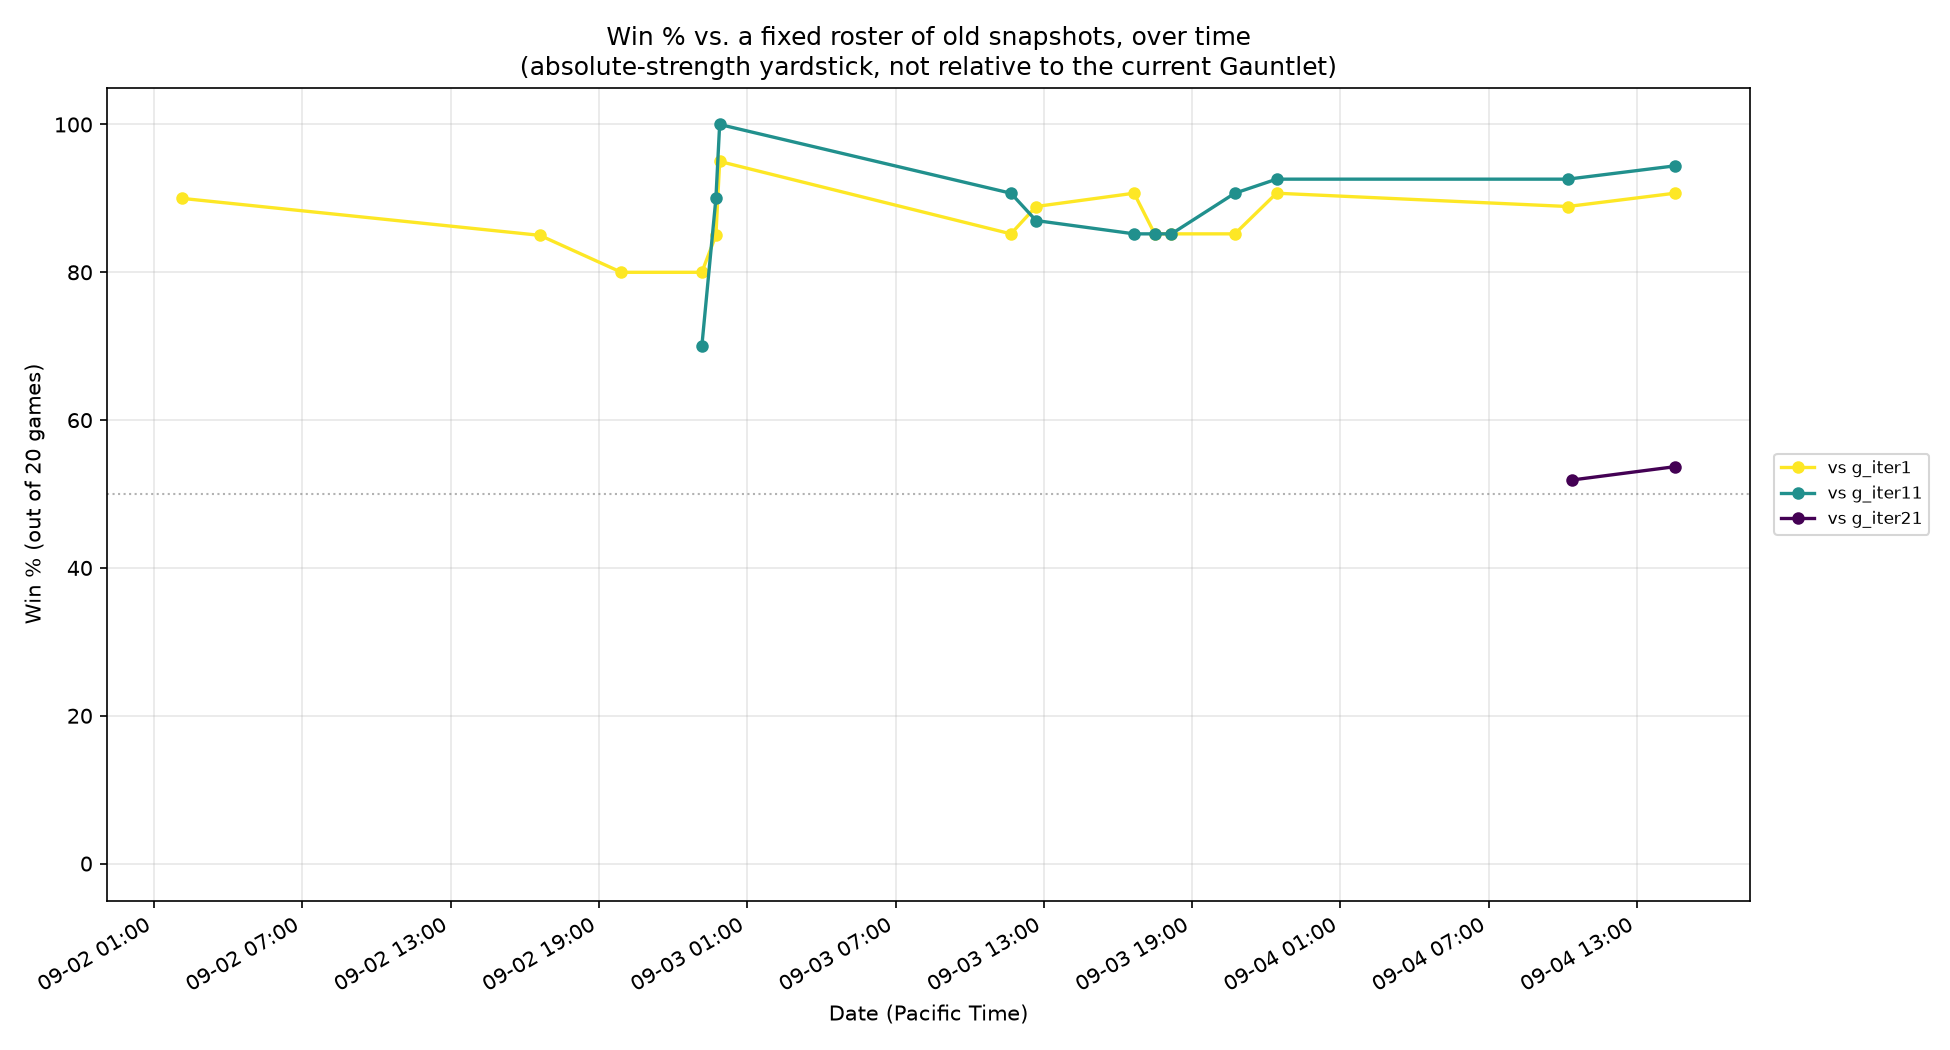
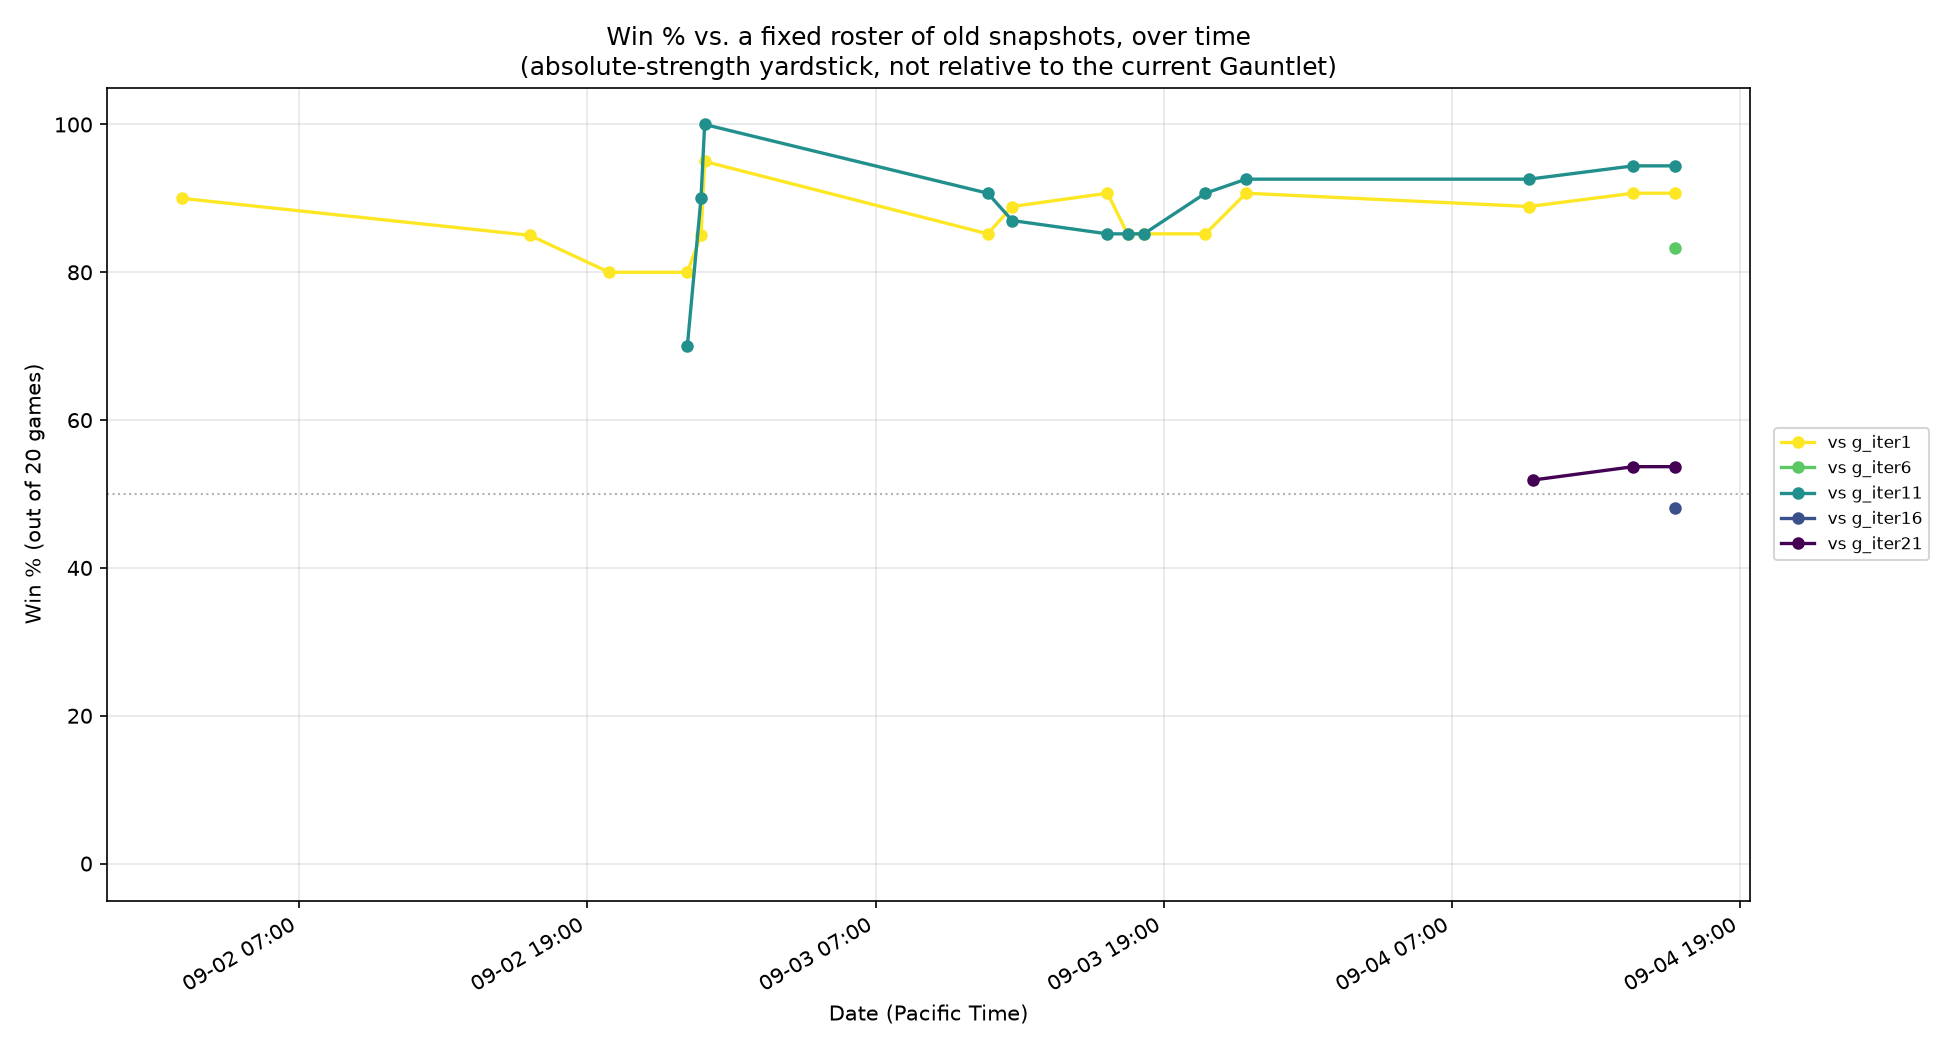
Widen vs_old_bots roster to every 5th snapshot; first 270-game run
Roster is now g_iter1, g_iter6, g_iter11, g_iter16, g_iter21 (every accepted
iteration ending in 1 or 6), 270 games per run.

First run at g_iter23:
    vs g_iter1   49/54 = 91%
    vs g_iter6   45/54 = 83%
    vs g_iter11  51/54 = 94%
    vs g_iter16  26/54 = 48%   <-- below even
    vs g_iter21  29/54 = 54%
    overall     200/270 = 74.1%

The denser roster immediately shows what decade spacing hid: we do not beat
g_iter16, seven accepts back, and only just beat g_iter21. The old two-point
roster reported 91% and 94% and made the lineage look uniformly dominated.

Not straightforwardly a regression -- benchmarks went 5/162 -> 8/162 and peers
55.6% -> 59.3% over the same span. The head-to-head says the improvements since
g_iter16 are benchmark-directed rather than lineage-directed: trap density (102),
cat traps (128) and the raid removal (138) all target behaviours the benchmark
bots exploit, and none help much against a copy of ourselves that never rushes
and never lays a trap field.

Same representativeness split recorded throughout, and a caution about the mirror
as primary accept test: g_iter16 beating g_iter23 head-to-head is what "the
mirror cannot arbitrate changes aimed at a threat it does not pose" predicts.

Claude-Session: https://claude.ai/code/session_01Sgao6EtbbgQ6mM5ZhH5FGP

diff --git a/TRAINING_LOG.md b/TRAINING_LOG.md
@@ -9505,3 +9505,44 @@ the ENGINE for capabilities and interactions the bot never used. Iteration 128
 found `CAT_TRAP` (half the cost, double the damage of a rat trap, credited as
 catDamage); Iteration 138 found that the raid's symmetry assumption is wrong on
 16 of 27 maps. Neither was a tuning question.
+
+## vs_old_bots roster widened to every 5th snapshot (user request)
+
+`roster_opponents()` now steps by 5 rather than 10, so the roster is every
+accepted iteration ending in 1 or 6: `g_iter1, g_iter6, g_iter11, g_iter16,
+g_iter21`. Five opponents means 270 games per run rather than 108.
+
+First run at `g_iter23`:
+
+    vs g_iter1    49/54 = 91%
+    vs g_iter6    45/54 = 83%
+    vs g_iter11   51/54 = 94%
+    vs g_iter16   26/54 = 48%     <-- below even
+    vs g_iter21   29/54 = 54%
+    overall      200/270 = 74.1%
+
+**The denser roster immediately shows something the decade spacing hid: we do
+not beat `g_iter16`,** a snapshot seven accepts back, and we only just beat
+`g_iter21`. The old two-point roster (g_iter1, g_iter11) reported 91% and 94%
+and made the lineage look uniformly dominated.
+
+### Reading it honestly
+
+This is not straightforwardly a regression. Benchmarks over the same span went
+**5/162 -> 8/162**, and peers 55.6% -> 59.3%, so the bot has improved against
+the opponents that matter. What the head-to-head says is that the improvements
+since `g_iter16` are **benchmark-directed rather than lineage-directed** -- the
+trap-density accept (Iteration 102), the cat traps (128) and the raid removal
+(138) all target behaviours the benchmark bots exploit, and none of them help
+much against a copy of ourselves that never rushes and never lays a trap field.
+
+That is the same representativeness split recorded throughout: our own lineage
+does not pose the threats we have been fixing. It is also a caution about the
+mirror as the primary accept test -- `g_iter16` beating `g_iter23` head-to-head
+is exactly what "the mirror cannot arbitrate changes aimed at a threat it does
+not pose" predicts.
+
+Worth watching rather than acting on immediately: if `g_iter16` stays above 50%
+as further accepts land, that is evidence the lineage has drifted into a local
+optimum that is worse head-to-head while better against benchmarks -- and the
+benchmark set is the one that resembles a tournament.
